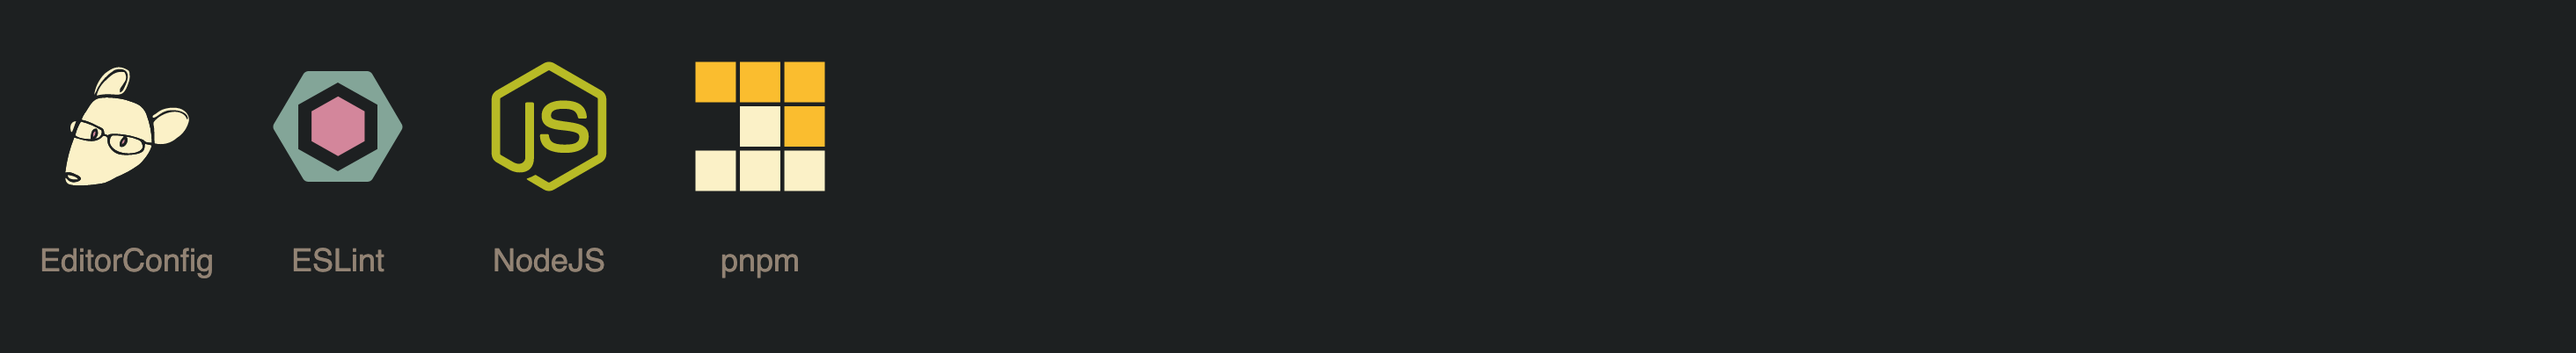
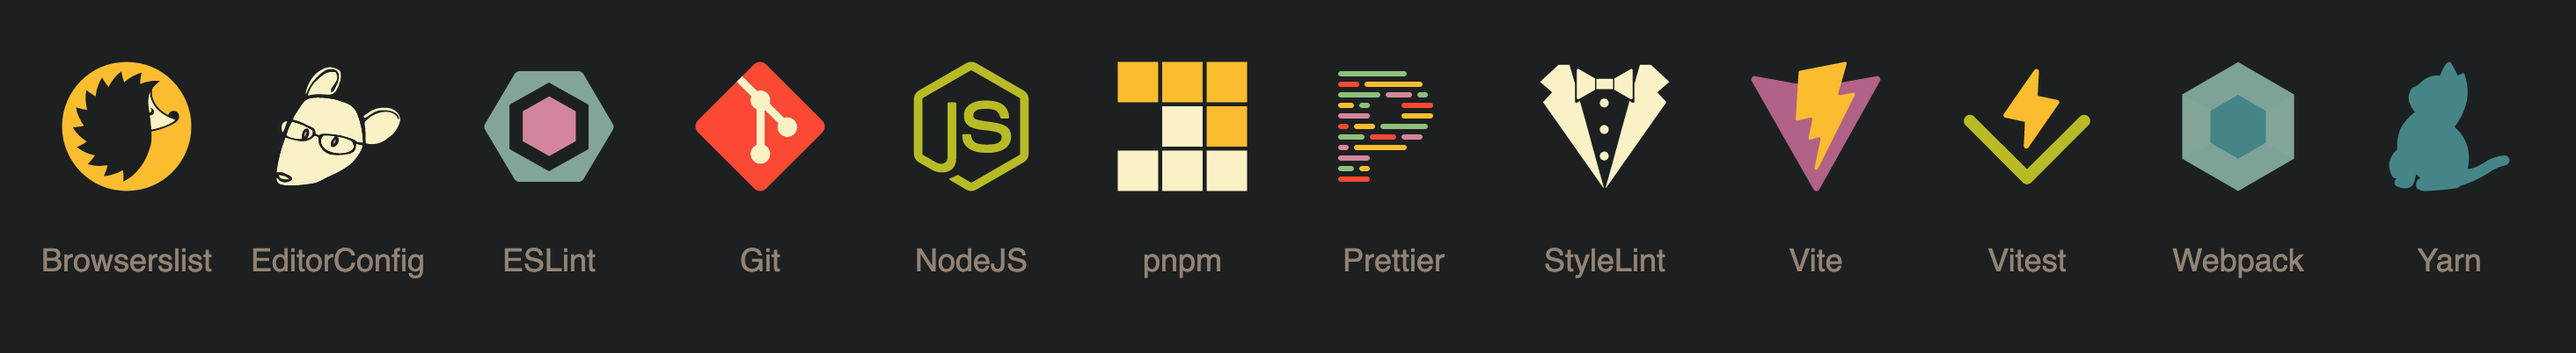
build: publish v0.4.0

diff --git a/changelog.md b/changelog.md
@@ -2,6 +2,43 @@
 
 All notable changes to this project will be documented in this file. See [standard-version](https://github.com/conventional-changelog/standard-version) for commit guidelines.
 
+## [0.4.0](https://github.com/azat-io/vscode-gruvbox-icon-theme/compare/v0.2.0...v0.4.0) (2023-02-07)
+
+
+### Features
+
+* add browserslist icon ([e88f368](https://github.com/azat-io/vscode-gruvbox-icon-theme/commit/e88f368f8f61c97294aed6b9c22bec4755de54dc))
+* add c# icon ([c53573e](https://github.com/azat-io/vscode-gruvbox-icon-theme/commit/c53573e429c4bc949fc37c12925b6afeee1efaf8))
+* add editorconfig icon ([4254eb0](https://github.com/azat-io/vscode-gruvbox-icon-theme/commit/4254eb0ae2eff78ff790f6c41cc1f156f4e39302))
+* add eslint icon ([d4d63b3](https://github.com/azat-io/vscode-gruvbox-icon-theme/commit/d4d63b3235b1787d46faa283e15edbb0110c4fdf))
+* add git icon ([4733002](https://github.com/azat-io/vscode-gruvbox-icon-theme/commit/4733002482dd4c926868898b9e3fe418ab5172a0))
+* add haskell icon ([e191355](https://github.com/azat-io/vscode-gruvbox-icon-theme/commit/e1913556f3b973d693a09f870e5636bcfd807b17))
+* add java icon ([6749f87](https://github.com/azat-io/vscode-gruvbox-icon-theme/commit/6749f87fc9fb42466dceae892abc9f549ac9c72e))
+* add markdown icon ([b5ee2e5](https://github.com/azat-io/vscode-gruvbox-icon-theme/commit/b5ee2e5bec192ae777871c99494265068bd1ed17))
+* add nodejs icon ([78ebfdc](https://github.com/azat-io/vscode-gruvbox-icon-theme/commit/78ebfdc26f01fde7bc03ca20d4ef664b93bb372c))
+* add pnpm icon ([e8e7ae4](https://github.com/azat-io/vscode-gruvbox-icon-theme/commit/e8e7ae459662b01aab557a5347b49b6058305aac))
+* add postcss icon ([be99edc](https://github.com/azat-io/vscode-gruvbox-icon-theme/commit/be99edc486edea29a467ed5b29800e92c2a04ade))
+* add prettier icon ([26fb865](https://github.com/azat-io/vscode-gruvbox-icon-theme/commit/26fb86580cf3fd2ec51cf1ef4a261d52cef84211))
+* add python icon ([070f8a1](https://github.com/azat-io/vscode-gruvbox-icon-theme/commit/070f8a17c06327a292aeea1c0e36191ed850b6d4))
+* add react icon ([20218bb](https://github.com/azat-io/vscode-gruvbox-icon-theme/commit/20218bb3278790d7e2f59d3a4a8929108c8a25ab))
+* add ruby icon ([b1888be](https://github.com/azat-io/vscode-gruvbox-icon-theme/commit/b1888becc4e6fa12429012907538d3f00db63f25))
+* add sass icon ([a99db73](https://github.com/azat-io/vscode-gruvbox-icon-theme/commit/a99db731431012b7c90550cfa4ed6b0a25f3f407))
+* add stylelint icon ([4436f0c](https://github.com/azat-io/vscode-gruvbox-icon-theme/commit/4436f0ce41ee9d5c97cacb77eb36fcff74b80396))
+* add svelte icon ([5374060](https://github.com/azat-io/vscode-gruvbox-icon-theme/commit/53740606fe75f014bae0fbccdc3db3cf93566d16))
+* add svg icon ([cabfa5d](https://github.com/azat-io/vscode-gruvbox-icon-theme/commit/cabfa5d4c57ecfb3333ce16d5383c3e199d35589))
+* add swift icon ([dfc0343](https://github.com/azat-io/vscode-gruvbox-icon-theme/commit/dfc0343834fa95fac56294d240b237c530bb2f1f))
+* add vite icon ([91f04af](https://github.com/azat-io/vscode-gruvbox-icon-theme/commit/91f04afe91263af40773e56963e3b6183d6ad1db))
+* add vitest icon ([8d40e70](https://github.com/azat-io/vscode-gruvbox-icon-theme/commit/8d40e70ffcdb92a043da98f78feda7b44dbc6a22))
+* add vue icon ([7fa39c7](https://github.com/azat-io/vscode-gruvbox-icon-theme/commit/7fa39c76d5b57866abf7ce624dcf86074f455b6d))
+* add webpack icon ([5ead658](https://github.com/azat-io/vscode-gruvbox-icon-theme/commit/5ead65887b6e65cdd27cad142b43a9781b4f702d))
+* add yarn icon ([bd4f26a](https://github.com/azat-io/vscode-gruvbox-icon-theme/commit/bd4f26a95a5f42be337c24818e7c66fbeddc6500))
+
+
+### Bug Fixes
+
+* fix icons loading ([4b51cf9](https://github.com/azat-io/vscode-gruvbox-icon-theme/commit/4b51cf93d789835e8d147b91059f0614387a5427))
+* update assets generation command ([45a2e21](https://github.com/azat-io/vscode-gruvbox-icon-theme/commit/45a2e219e26a9e90f55cd6129d594007bd4b64fe))
+
 ## [0.3.0](https://github.com/azat-io/vscode-gruvbox-icon-theme/compare/v0.2.0...v0.3.0) (2023-02-06)
 
 
